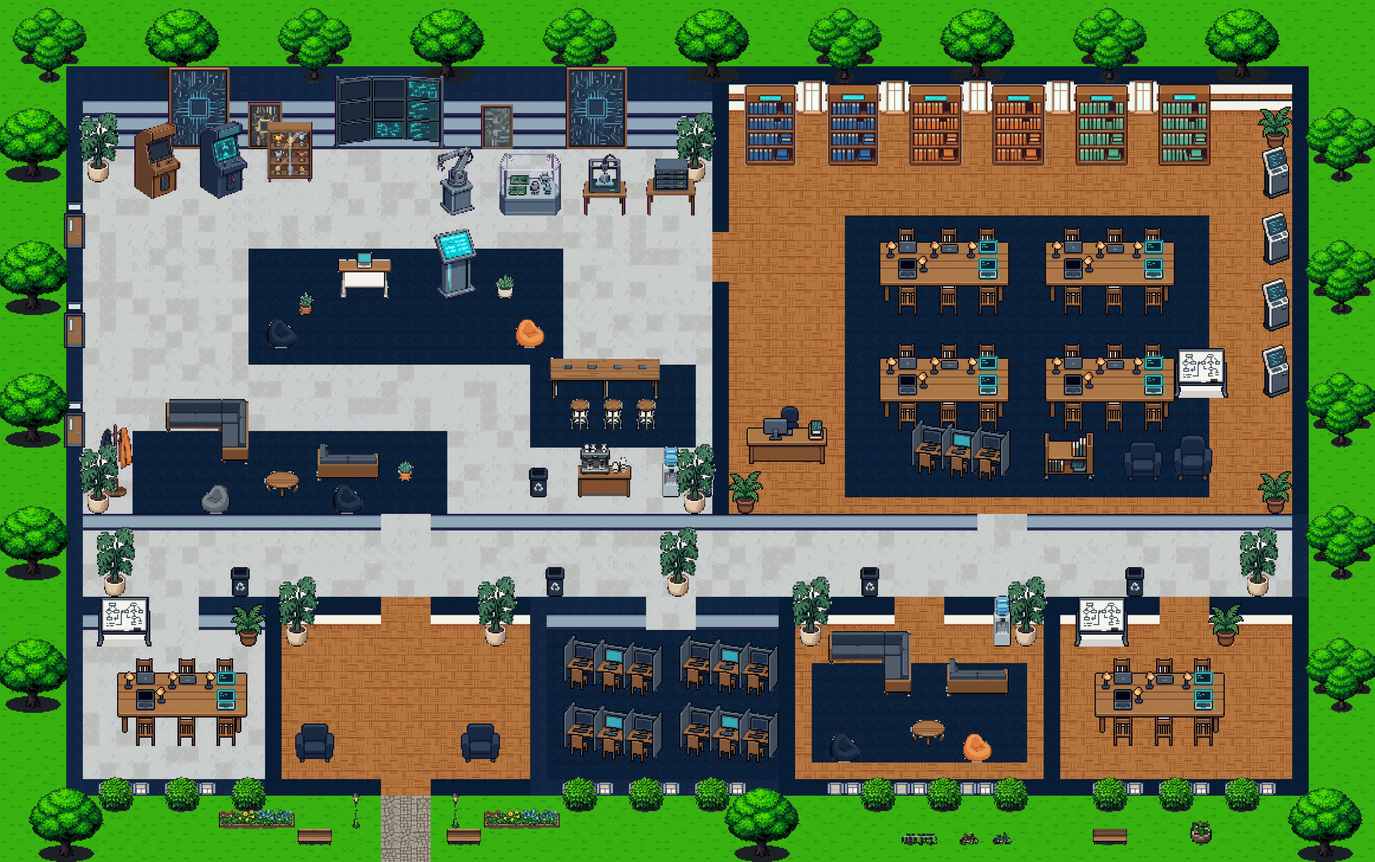
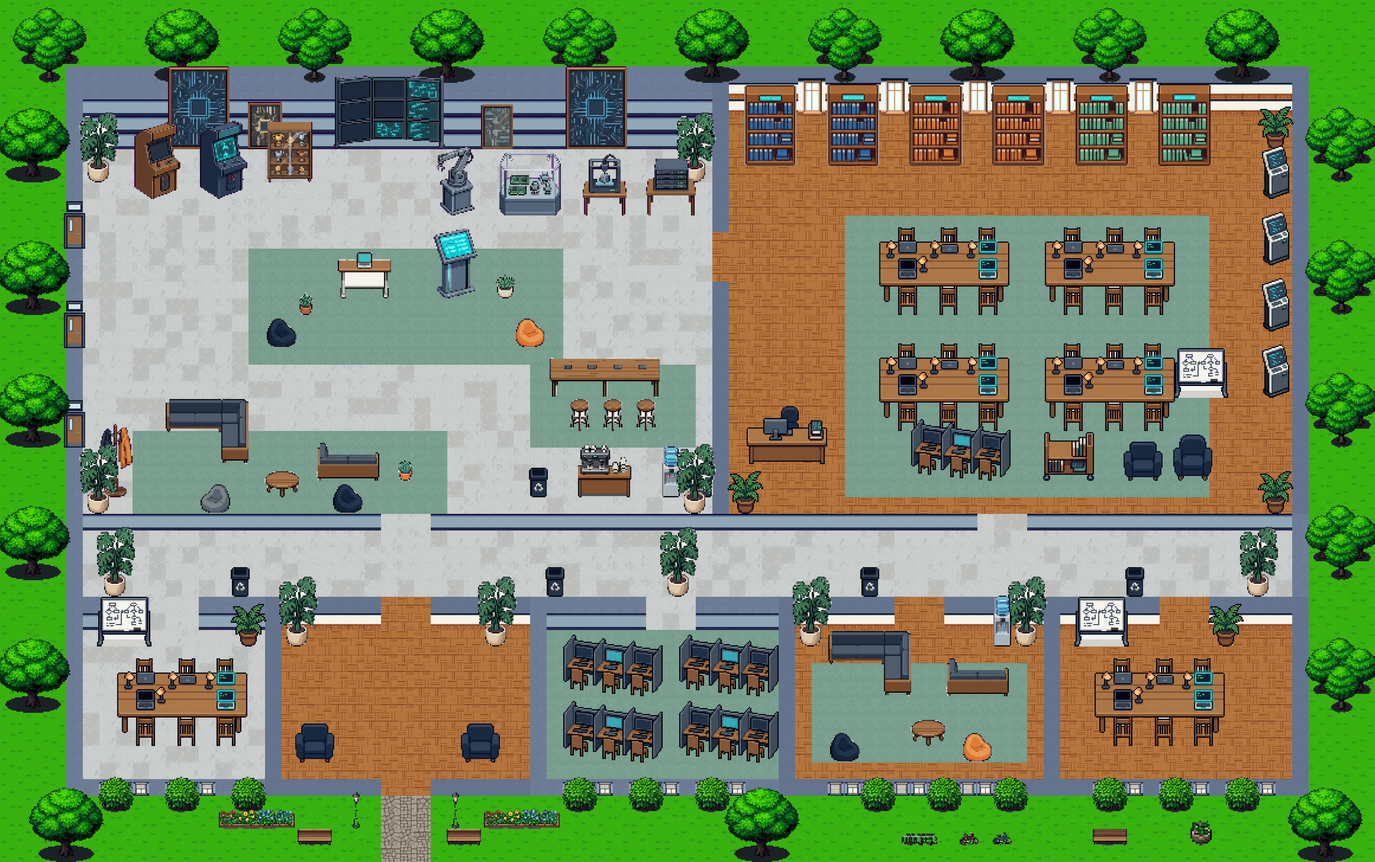
Palet peta lebih ramah: karpet sage, dinding biru-abu debu

diff --git a/tools/mapgen.py b/tools/mapgen.py
@@ -50,6 +50,21 @@ def rel(path, start):
 
 
 # ------------------------------------------------------------------ set tile
+# Palet ramah (permintaan pemilik proyek): karpet navy gelap -> hijau sage lembut; dinding/panel navy gelap -> biru-abu debu.
+# Peta kecerahan -> warna (lo..hi dipetakan dari warna gelap ke terang); pola tekstur tetap terbaca.
+RAMP_KARPET = ((20, 60), (112, 150, 134), (158, 192, 174))
+RAMP_DINDING = ((20, 70), (96, 112, 138), (140, 156, 180))
+
+
+def recolor(im, ramp):
+    (lo, hi), c0, c1 = ramp
+    a = np.array(im.convert("RGBA")).astype(float)
+    lum = a[..., :3] @ np.array([.299, .587, .114])
+    t = np.clip((lum - lo) / (hi - lo), 0, 1)[..., None]
+    a[..., :3] = np.array(c0) * (1 - t) + np.array(c1) * t
+    return Image.fromarray(a.astype(np.uint8))
+
+
 def clean_tile(name, im):
     """Buang garis tepi bawaan sprite yang membentuk kisi/garis saat petak diulang."""
     if name.startswith(("lantai_", "panel_gelap_")):      # lembar kelas: tepi 2 px berwarna ungu sisa latar
@@ -83,6 +98,10 @@ def build_floor_tileset(tiles, name="floor-wall"):
         im = Image.open(sprite_path(sh, sp)).convert("RGBA")
         src = im.size
         im = clean_tile(tname, im).resize((T, T), Image.NEAREST)
+        if tname.startswith("karpet_navy_"):
+            im = recolor(im, RAMP_KARPET)
+        elif tname.startswith(("panel_navy_gelap", "panel_gelap_")):
+            im = recolor(im, RAMP_DINDING)
         holes = float((np.array(im)[..., 3] < 255).mean())
         if holes:
             notes.append(f"{tname}: {holes * 100:.0f}% piksel transparan")

diff --git a/docs/PETA.md b/docs/PETA.md
@@ -272,6 +272,11 @@ terpisah untuk set ini (belum ada; lihat bagian 9).
   (kisi hitam 2 px di gambar mentah diperbaiki; 1 piksel seni = 4 px sumber) menjadi
   `export/tiles/outdoor/{sprites,ground}/`.
 
+- **Palet peta (ramah).** Karpet navy gelap diwarnai ulang jadi hijau sage lembut, dan panel dinding
+  navy gelap jadi biru-abu debu. Pewarnaan dilakukan saat membuat set tile (`RAMP_KARPET`,
+  `RAMP_DINDING` di `tools/mapgen.py`); sprite asli di `export/tiles/` tidak diubah. Nama tile masih
+  `karpet_navy_*`/`panel_*` demi kompatibilitas tata letak. Mengganti warna = ubah dua konstanta itu.
+
 **Catatan keandalan.** Berkas `.tmj` divalidasi skrip (gid, gambar, id objek ganda) dan pratinjau
 digambar ulang dari berkas itu, bukan dari spesifikasi. Namun berkas ini **belum pernah dibuka di
 aplikasi Tiled** maupun dimuat di Phaser. Objek memakai kunci `type` (bukan `class`).
